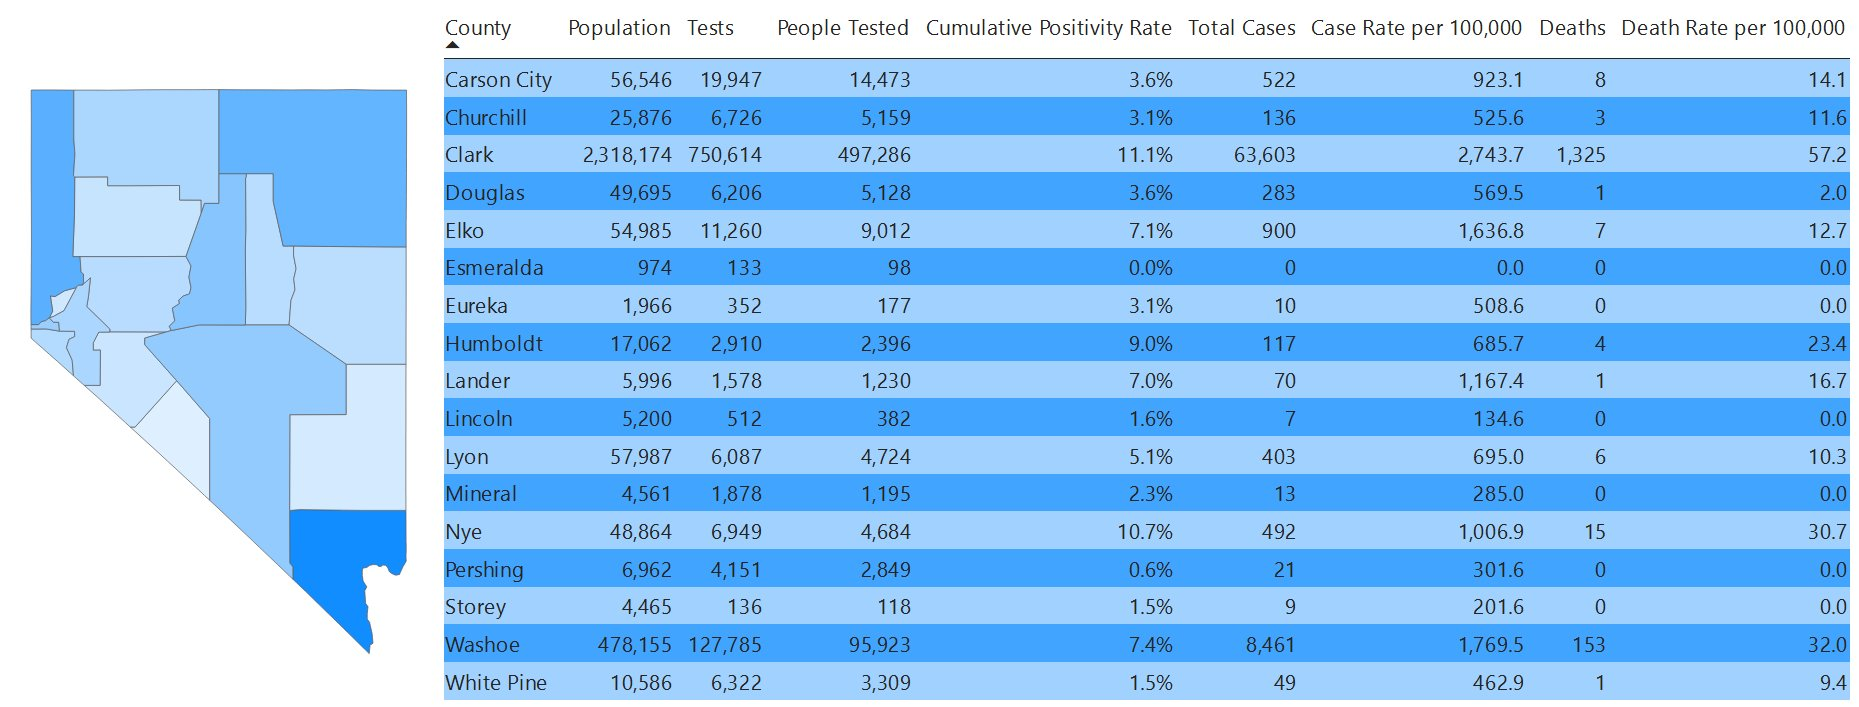
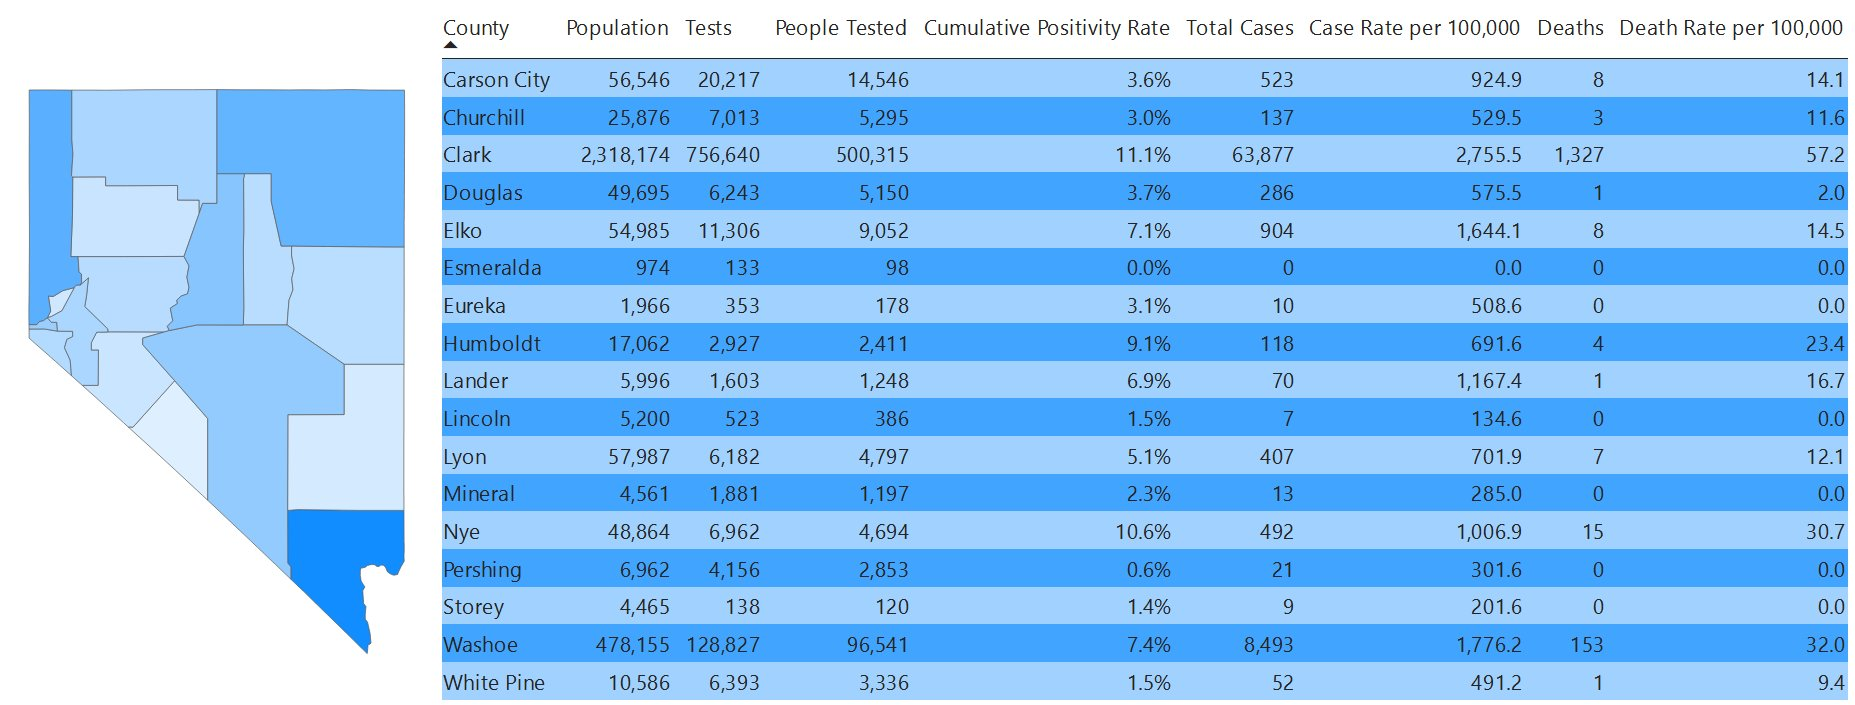
Day 199

diff --git a/src/pages/clarkcounty.js b/src/pages/clarkcounty.js
@@ -215,6 +215,7 @@ class ClarkPage extends Component {
 				'9/15/20',
 				'9/16/20',
 				'9/17/20',
+				'9/18/20',
 			],
 			datasets: [
 				{
@@ -419,6 +420,7 @@ class ClarkPage extends Component {
 						63077,
 						63301,
 						63603,
+						63877,
 					],
 				},
 			],
@@ -624,6 +626,7 @@ class ClarkPage extends Component {
 				'9/15/20',
 				'9/16/20',
 				'9/17/20',
+				'9/18/20',
 			],
 			datasets: [
 				{
@@ -828,6 +831,7 @@ class ClarkPage extends Component {
 						125,
 						224,
 						302,
+						274,
 					],
 				},
 			],
@@ -1013,6 +1017,7 @@ class ClarkPage extends Component {
 				'9/15/20',
 				'9/16/20',
 				'9/17/20',
+				'9/18/20',
 			],
 			datasets: [
 				{
@@ -1197,6 +1202,7 @@ class ClarkPage extends Component {
 						5734,
 						5806,
 						5860,
+						5912,
 					],
 				},
 			],
@@ -1381,6 +1387,7 @@ class ClarkPage extends Component {
 				'9/15/20',
 				'9/16/20',
 				'9/17/20',
+				'9/18/20',
 			],
 			datasets: [
 				{
@@ -1565,6 +1572,7 @@ class ClarkPage extends Component {
 						53,
 						72,
 						54,
+						52,
 					],
 				},
 			],
@@ -1770,6 +1778,7 @@ class ClarkPage extends Component {
 				'9/15/20',
 				'9/16/20',
 				'9/17/20',
+				'9/18/20',
 			],
 			datasets: [
 				{
@@ -1973,6 +1982,7 @@ class ClarkPage extends Component {
 						1298,
 						1309,
 						1325,
+						1327,
 					],
 					backgroundColor: 'maroon',
 				},
@@ -2167,6 +2177,7 @@ class ClarkPage extends Component {
 				'9/15/20',
 				'9/16/20',
 				'9/17/20',
+				'9/18/20',
 			],
 			datasets: [
 				{
@@ -2359,6 +2370,7 @@ class ClarkPage extends Component {
 						11,
 						11,
 						16,
+						2,
 					],
 				},
 			],
@@ -2564,6 +2576,7 @@ class ClarkPage extends Component {
 				'9/15/20',
 				'9/16/20',
 				'9/17/20',
+				'9/18/20',
 			],
 			datasets: [
 				{
@@ -2755,17 +2768,18 @@ class ClarkPage extends Component {
 						10.2,
 						9.9,
 						9.4,
-						8.9,
+						9.0,
 						8.4,
+						7.8,
+						7.8,
 						7.7,
-						7.7,
-						7.7,
-						7.2,
-						7.4,
+						7.3,
 						7.4,
 						7.5,
-						7.7,
 						7.5,
+						7.8,
+						7.4,
+						7.3,
 						7.4,
 						null,
 						null,
@@ -2845,6 +2859,7 @@ class ClarkPage extends Component {
 						null,
 						null,
 						null,
+						6.9,
 						6.9,
 						6.9,
 						6.9,
@@ -3185,6 +3200,7 @@ class ClarkPage extends Component {
 						3.9,
 						3.9,
 						3.9,
+						3.9,
 					],
 				},
 			],
@@ -3195,7 +3211,7 @@ class ClarkPage extends Component {
 			datasets: [
 				{
 					label: 'Age of Cases',
-					data: [1308, 4941, 8170, 30443, 12297, 6426],
+					data: [1318, 4963, 8211, 30552, 12356, 6459],
 					backgroundColor: [
 						'rgb(54, 162, 235)', //blue
 						'rgb(255, 99, 132)', //salmon
@@ -3213,7 +3229,7 @@ class ClarkPage extends Component {
 			datasets: [
 				{
 					label: 'Sex',
-					data: [32537, 30697, 369],
+					data: [32686, 30827, 364],
 					backgroundColor: [
 						'rgb(255, 99, 132)',
 						'rgb(54, 162, 235)',
@@ -3255,8 +3271,8 @@ class ClarkPage extends Component {
 											</div>
 										</div>
 										<div className='card-value pt-4'>
-											<h1>63,603</h1>
-											<h2 className='is_salmon'>+ 302</h2>
+											<h1>63,877</h1>
+											<h2 className='is_salmon'>+ 274</h2>
 										</div>
 									</div>
 								</div>
@@ -3268,8 +3284,8 @@ class ClarkPage extends Component {
 											</div>
 										</div>
 										<div className='card-value pt-4'>
-											<h1>5,860</h1>
-											<h2 className='is_salmon'>+ 54</h2>
+											<h1>5,912</h1>
+											<h2 className='is_salmon'>+ 52</h2>
 										</div>
 									</div>
 								</div>
@@ -3294,8 +3310,8 @@ class ClarkPage extends Component {
 											</div>
 										</div>
 										<div className='card-value pt-4'>
-											<h1>1,325</h1>
-											<h2 className='is_salmon'>+ 16</h2>
+											<h1>1,327</h1>
+											<h2 className='is_salmon'>+ 2</h2>
 										</div>
 									</div>
 								</div>

diff --git a/src/pages/nevada.js b/src/pages/nevada.js
@@ -213,6 +213,7 @@ class NevadaPage extends Component {
 				'9/15/20',
 				'9/16/20',
 				'9/17/20',
+				'9/18/20',
 			],
 			datasets: [
 				{
@@ -416,6 +417,7 @@ class NevadaPage extends Component {
 						74248,
 						74595,
 						75096,
+						75419,
 					],
 					fill: false, // Don't fill area under the line
 					backgroundColor: '#933A16', // Line color
@@ -622,6 +624,7 @@ class NevadaPage extends Component {
 				'9/15/20',
 				'9/16/20',
 				'9/17/20',
+				'9/18/20',
 			],
 			datasets: [
 				{
@@ -826,6 +829,7 @@ class NevadaPage extends Component {
 						208,
 						347,
 						501,
+						323,
 					],
 					fill: false, // Don't fill area under the line
 					backgroundColor: '#933A16', // Bar color
@@ -1032,6 +1036,7 @@ class NevadaPage extends Component {
 				'9/15/20',
 				'9/16/20',
 				'9/17/20',
+				'9/18/20',
 			],
 			datasets: [
 				{
@@ -1234,7 +1239,8 @@ class NevadaPage extends Component {
 						1509,
 						1512,
 						1519,
-						1522,
+						1525,
+						1528,
 					],
 					backgroundColor: 'maroon',
 				},
@@ -1429,6 +1435,7 @@ class NevadaPage extends Component {
 				'9/15/20',
 				'9/16/20',
 				'9/17/20',
+				'9/18/20',
 			],
 			datasets: [
 				{
@@ -1620,6 +1627,7 @@ class NevadaPage extends Component {
 						9,
 						3,
 						7,
+						6,
 						3,
 					],
 				},
@@ -1826,6 +1834,7 @@ class NevadaPage extends Component {
 				'9/15/20',
 				'9/16/20',
 				'9/17/20',
+				'9/18/20',
 			],
 			datasets: [
 				{
@@ -2031,6 +2040,7 @@ class NevadaPage extends Component {
 						10.1,
 						10.1,
 						10.1,
+						10.0,
 						null,
 					],
 				},
@@ -2225,18 +2235,19 @@ class NevadaPage extends Component {
 						8.5,
 						8.1,
 						7.7,
-						7.1,
+						7.2,
 						7.0,
-						6.8,
+						6.9,
 						6.6,
 						6.7,
 						6.7,
+						6.7,
+						7.0,
 						6.8,
-						7.0,
-						7.0,
+						6.9,
+						6.9,
 						7.0,
 						7.2,
-						7.6,
 						null,
 					],
 				},
@@ -2314,6 +2325,7 @@ class NevadaPage extends Component {
 						null,
 						null,
 						null,
+						11.0,
 						11.0,
 						11.0,
 						11.0,
@@ -2652,6 +2664,7 @@ class NevadaPage extends Component {
 						6.1,
 						6.1,
 						6.1,
+						6.1,
 					],
 				},
 			],
@@ -2687,8 +2700,8 @@ class NevadaPage extends Component {
 										</div>
 									</div>
 									<div className='card-value pt-4'>
-										<h1>655,860</h1>
-										<h2 className='is_salmon'>+ 3,960</h2>
+										<h1>659,972</h1>
+										<h2 className='is_salmon'>+ 4,112</h2>
 									</div>
 								</div>
 							</div>
@@ -2700,8 +2713,8 @@ class NevadaPage extends Component {
 										</div>
 									</div>
 									<div className='card-value pt-4'>
-										<h1>581,505</h1>
-										<h2 className='is_salmon'>+ 3,517</h2>
+										<h1>585,267</h1>
+										<h2 className='is_salmon'>+ 3,762</h2>
 									</div>
 								</div>
 							</div>
@@ -2713,8 +2726,8 @@ class NevadaPage extends Component {
 										</div>
 									</div>
 									<div className='card-value pt-4'>
-										<h1>75,096</h1>
-										<h2 className='is_salmon'>+ 501</h2>
+										<h1>75,419</h1>
+										<h2 className='is_salmon'>+ 323</h2>
 									</div>
 								</div>
 							</div>
@@ -2726,8 +2739,8 @@ class NevadaPage extends Component {
 										</div>
 									</div>
 									<div className='card-value pt-4'>
-										<h1>1,522</h1>
-										<h2 className='is_salmon'>+ 18</h2>
+										<h1>1,528</h1>
+										<h2 className='is_salmon'>+ 4</h2>
 									</div>
 								</div>
 							</div>
